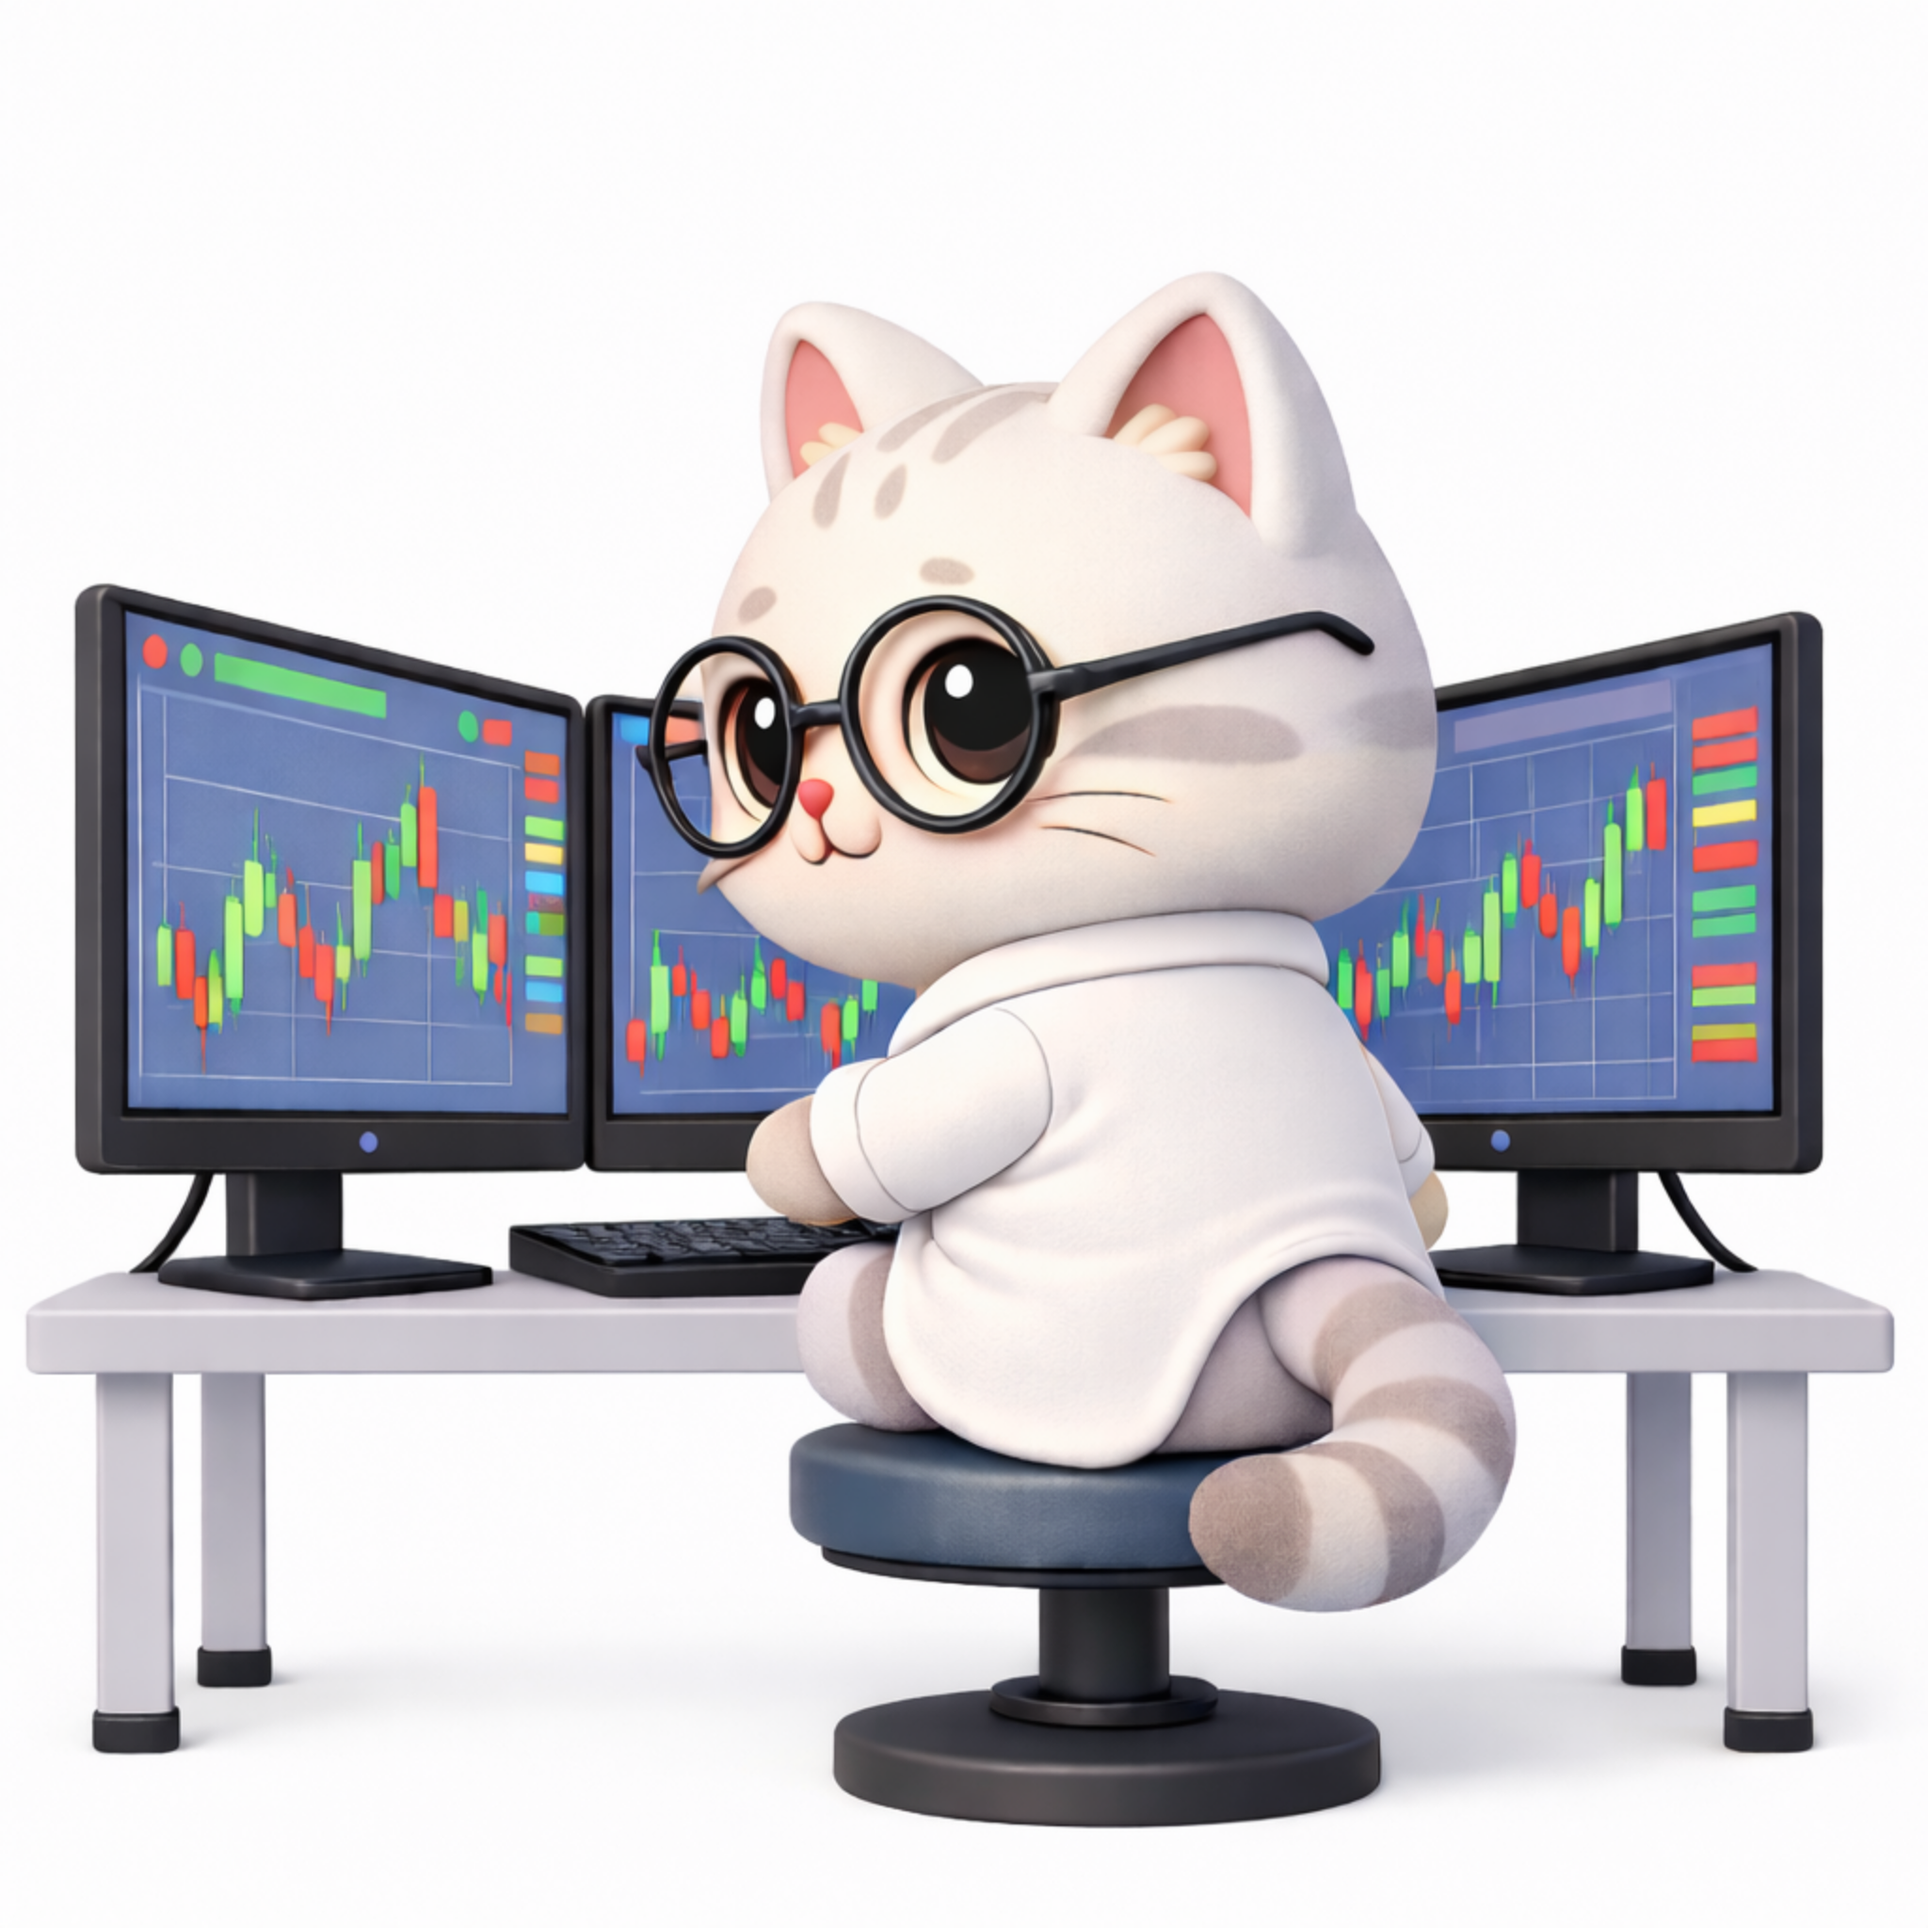
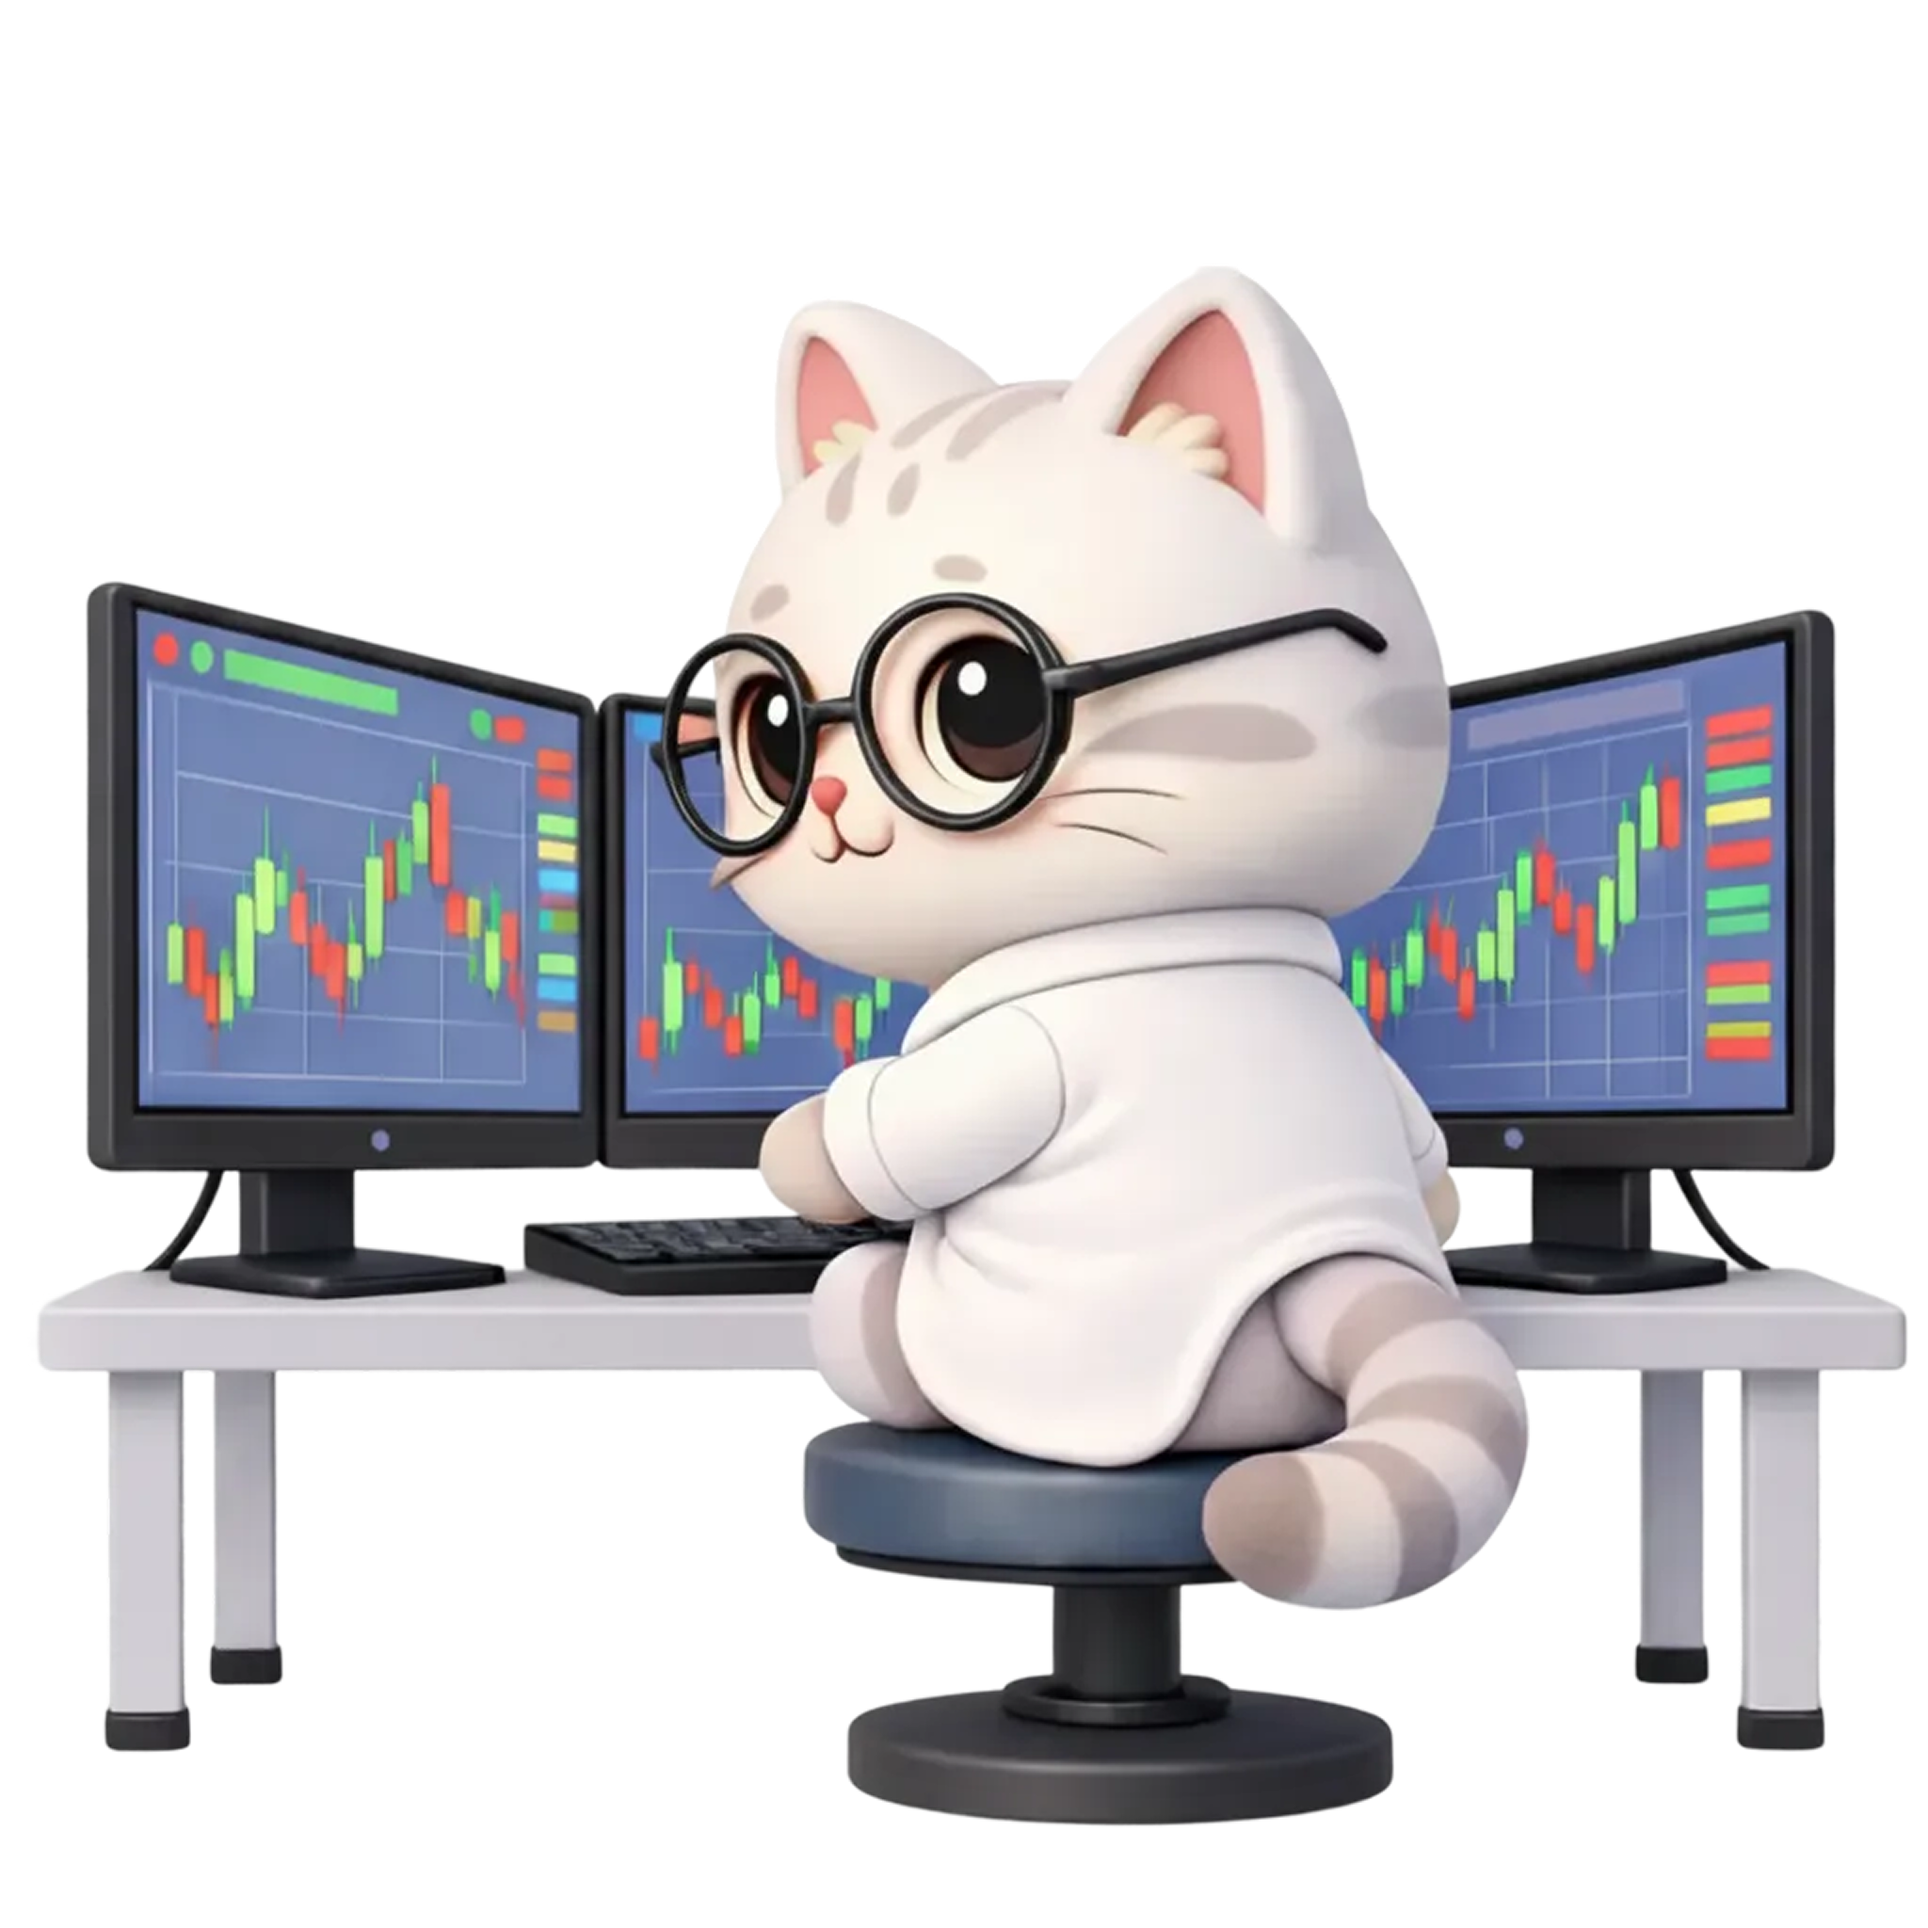
fix: 고양이 이미지 사이즈 + 투명 배경

diff --git a/app/page.tsx b/app/page.tsx
@@ -20,14 +20,14 @@ function HomeContent() {
 
       {/* Main Content */}
       <div className="flex-1 flex flex-col items-center justify-center px-4 pb-8 -mt-12">
-        {/* Cat Researcher Illustration - 사이즈 축소 */}
+        {/* Cat Researcher Illustration - 사이즈 조정 */}
         <div className="mb-4">
-          <div className="relative w-36 h-36 sm:w-44 sm:h-44">
+          <div className="relative w-44 h-44 sm:w-52 sm:h-52">
             <Image
               src="/cat-researcher.png"
               alt="귀여운 고양이 연구원"
               fill
-              className="object-contain rounded-2xl"
+              className="object-contain"
               priority
             />
           </div>

diff --git a/public/sw.js b/public/sw.js
@@ -1,5 +1,5 @@
 // 배포할 때마다 이 버전을 올려주세요! (또는 날짜로)
-const CACHE_VERSION = 'v2-' + '20260206c';
+const CACHE_VERSION = 'v2-' + '20260206d';
 const CACHE_NAME = 'mijudogam-' + CACHE_VERSION;
 const OFFLINE_URL = '/offline.html';
 
